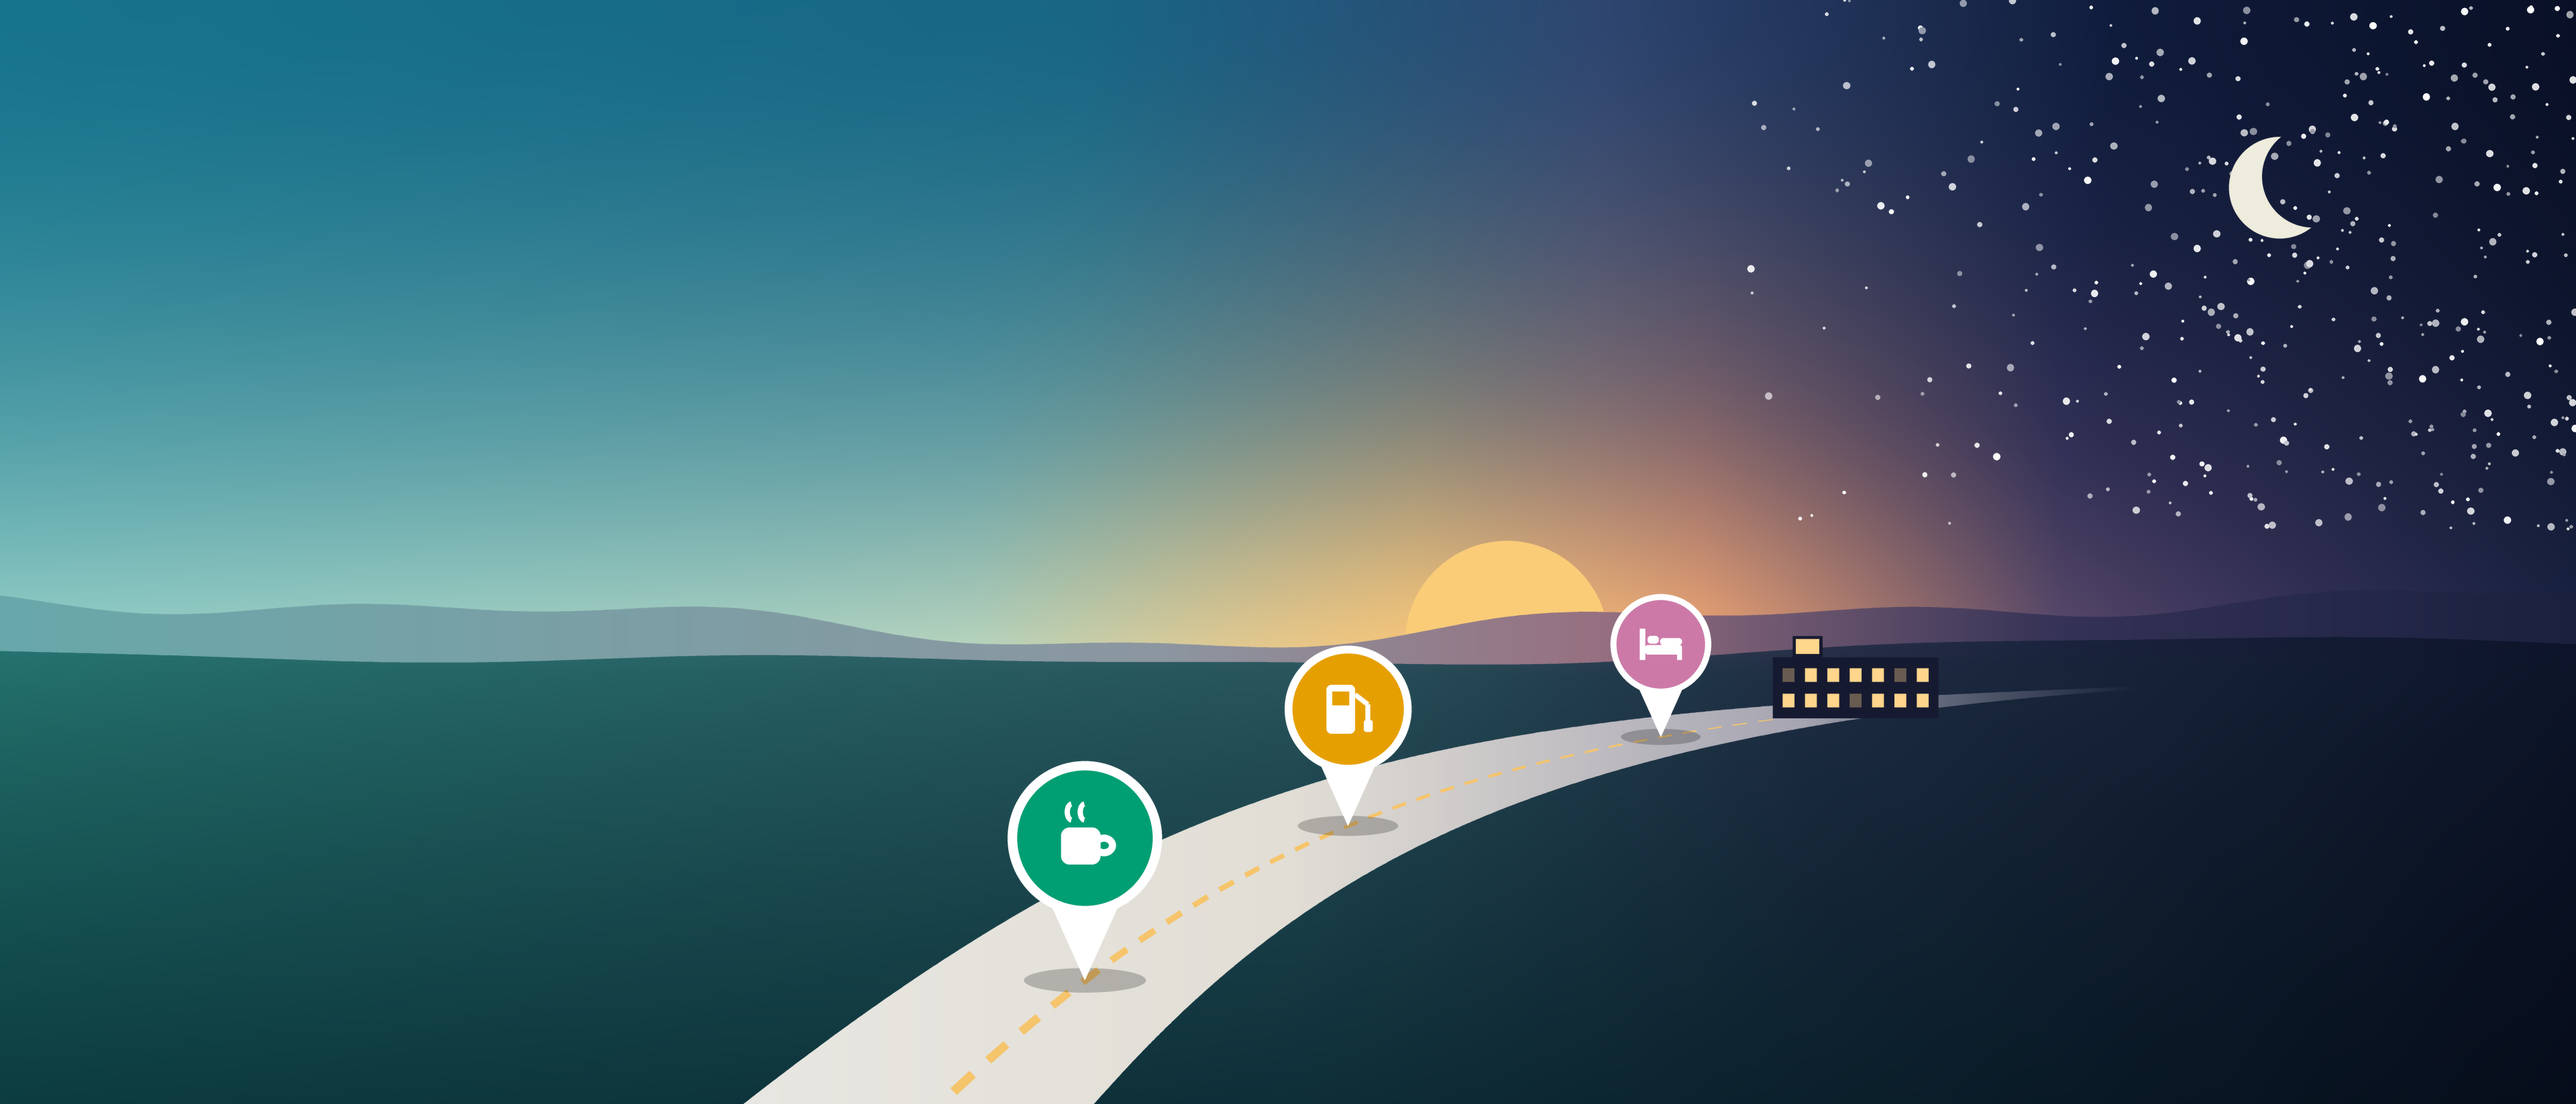
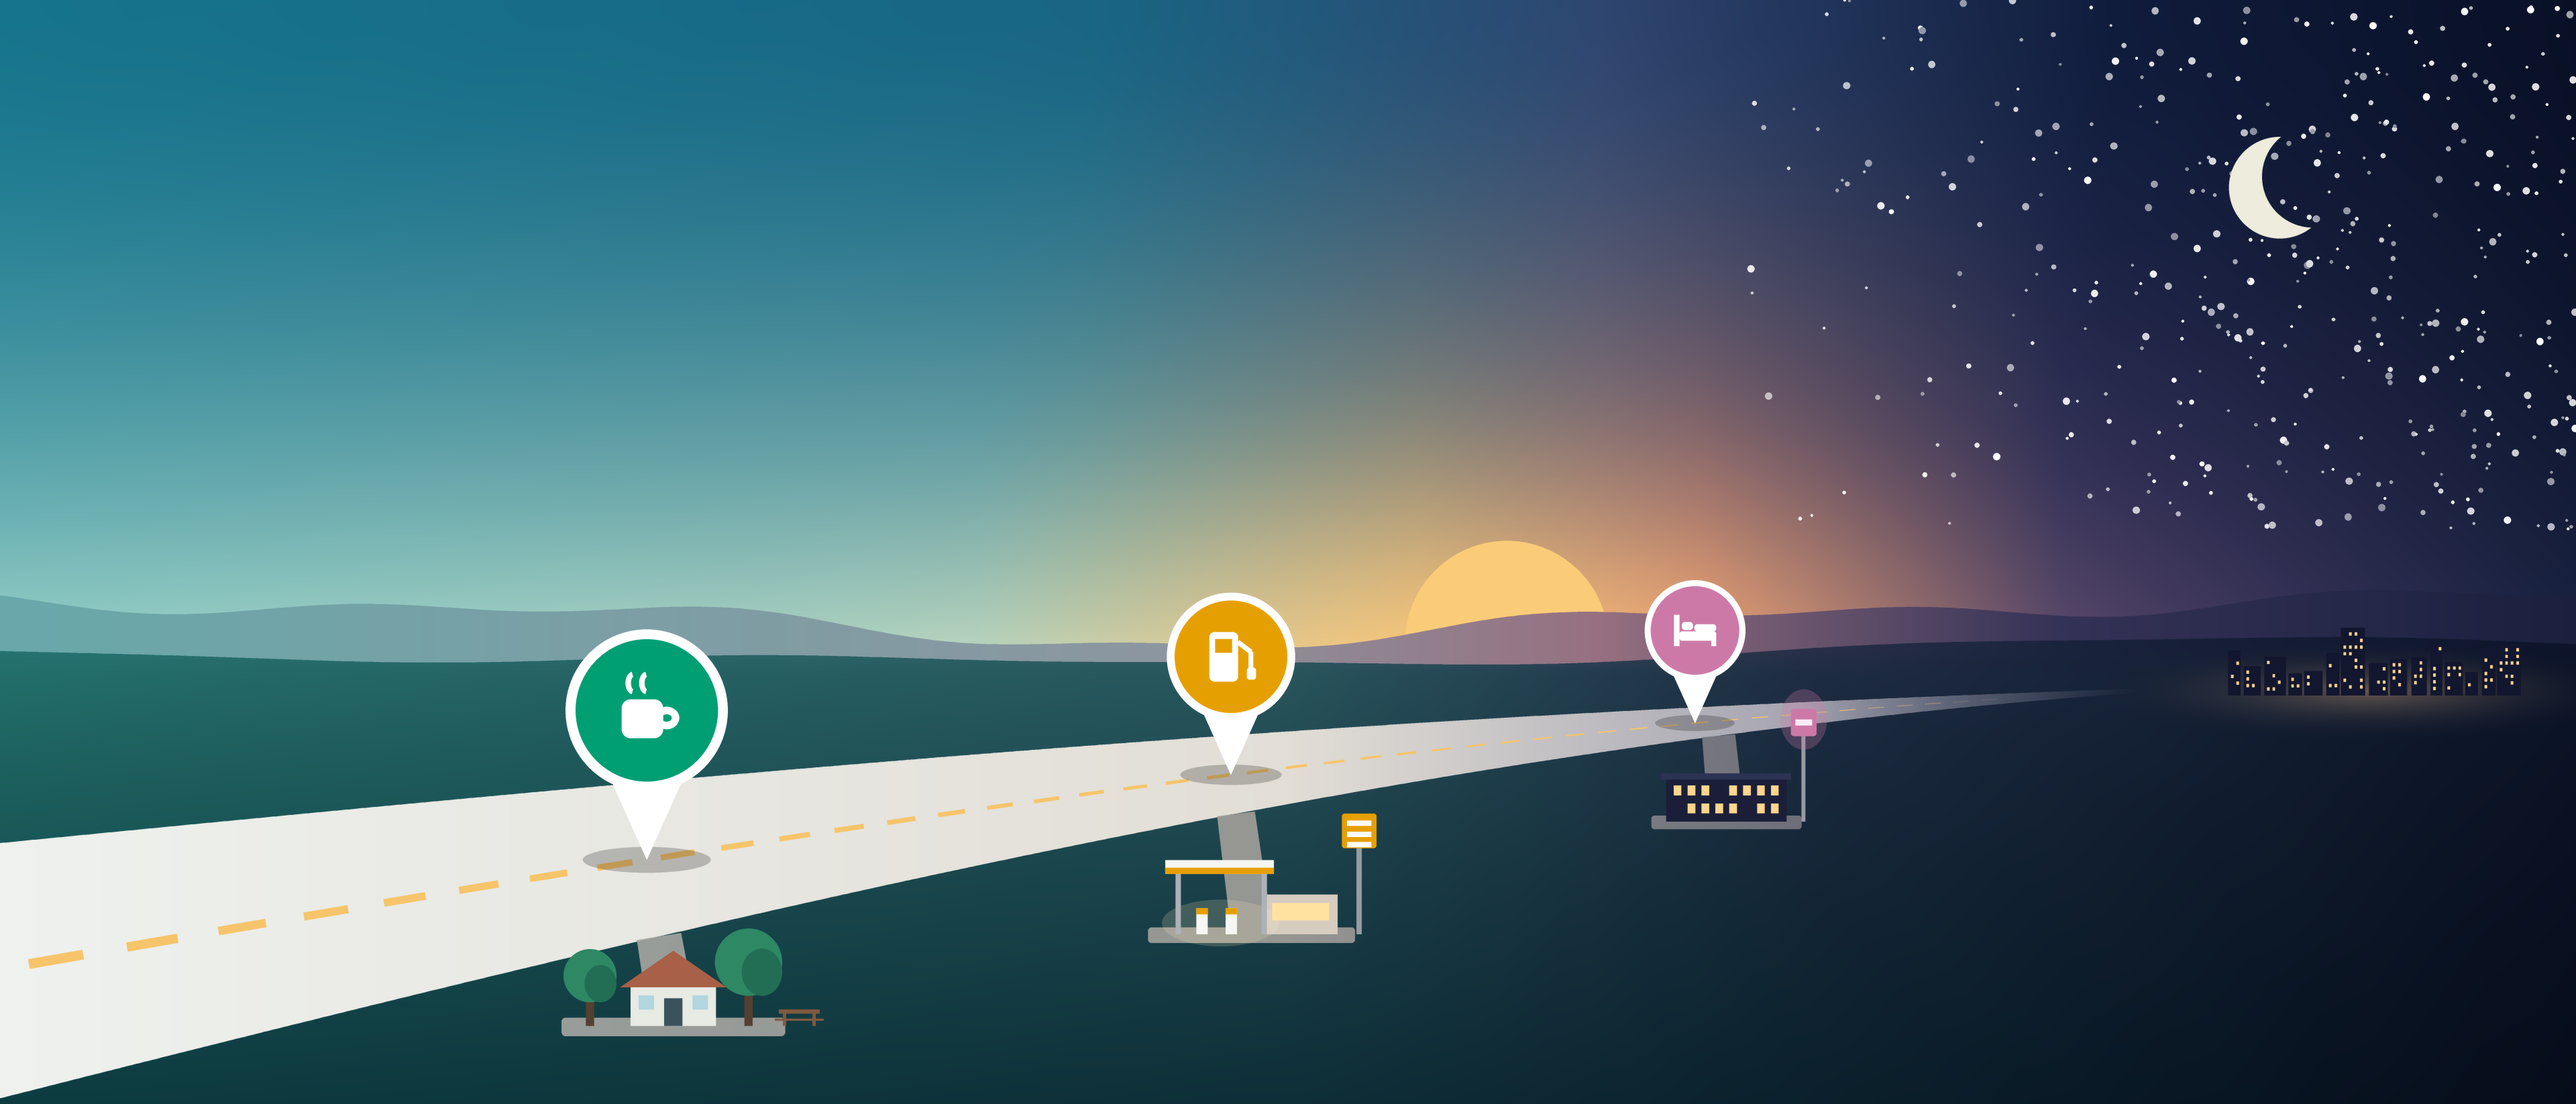
feat(store): stops beside the road, markers on it, a city at the end
The places to stop now stand beside the road, each with a driveway and
a small lot: a rest area with trees and a picnic table, a gas station
with its canopy, pumps and price sign, and a motel with lit windows and
a glowing sign. Only the pins stand on the road. The road leads to the
destination, a small city lit up on the horizon. The road comes in from
the left edge on a gentler diagonal so there's open land beside it.

Claude-Session: https://claude.ai/code/session_01BRUeUVsLRXhWLD3bJPQ5MV

Changed region(s): [[0.0, 0.5267, 0.7812, 1.0], [0.875, 0.5887, 0.9688, 0.6507]]

diff --git a/scripts/generate_store_header.py b/scripts/generate_store_header.py
@@ -2,9 +2,10 @@
 """Renders the App Store product-page header in both accepted sizes (RGB, no alpha).
 
 One long driving day as a panorama: daylight on the left turns to sunset in the middle and night
-on the right. A road winds from the foreground into the distance, and the trip's stops stand along
-it as pins in the app's stop colours: a break, fuel, and a motel lit up for the night. There's no
-text, and the stops sit in the middle so the App Store can crop the sides for each device.
+on the right. A road winds from the foreground into the distance, toward a city lit up on the horizon (the
+destination). The trip's stops are places beside the road, each with a driveway: a rest area, a
+gas station and a motel for the night; their markers stand on the road as pins in the app's stop
+colours. There's no text, and the stops sit in the middle so the App Store can crop the sides.
 
 Usage: python3 scripts/generate_store_header.py [output-directory]
 """
@@ -34,8 +35,8 @@ LINE = (246, 196, 106)
 WINDOW = (255, 214, 140)
 WHITE = (255, 255, 255)
 STOPS = [  # (position along the road, colour, glyph)
-    (0.36, (0, 158, 115), "rest"),
-    (0.57, (230, 159, 0), "fuel"),
+    (0.30, (0, 158, 115), "rest"),
+    (0.56, (230, 159, 0), "fuel"),
     (0.77, (204, 121, 167), "bed"),
 ]
 
@@ -109,6 +110,93 @@ def glyph(draw, kind, cx, cy, r):
         draw.rounded_rectangle([cx - 2 * k, cy - 16 * k, cx + 54 * k, cy + 2 * k], radius=8 * k, fill=255)
 
 
+class Site:
+    """A roadside place drawn in design units from its base centre (x right, y down, k px/unit)."""
+
+    def __init__(self, c, bx, by, k):
+        self.c, self.bx, self.by, self.k = c, bx, by, k
+
+    def box(self, x0, y0, x1, y1):
+        return [(self.bx + x0 * self.k) * SS, (self.by + y0 * self.k) * SS, (self.bx + x1 * self.k) * SS, (self.by + y1 * self.k) * SS]
+
+    def points(self, *xy):
+        return [((self.bx + x * self.k) * SS, (self.by + y * self.k) * SS) for x, y in xy]
+
+    def paint(self, color, shapes, opacity=1.0):
+        layer, draw = self.c.mask()
+        shapes(draw)
+        self.c.fill(layer, color, opacity)
+
+
+def rest_area(site):
+    """A small rest-area building with a gabled roof, trees and a picnic table."""
+    for tx, tr in ((-82, 26), (74, 33)):
+        site.paint((84, 64, 48), lambda d: d.rectangle(site.box(tx - 4, -tr * 1.1, tx + 4, 0), fill=255))
+        site.paint((46, 136, 100), lambda d: d.ellipse(site.box(tx - tr, -tr * 2.9, tx + tr, -tr * 0.9), fill=255))
+        site.paint((34, 110, 84), lambda d: d.ellipse(site.box(tx - tr * 0.2, -tr * 2.3, tx + tr, -tr * 0.9), fill=255))
+    site.paint((232, 234, 228), lambda d: d.rectangle(site.box(-42, -40, 42, 0), fill=255))
+    site.paint((168, 96, 72), lambda d: d.polygon(site.points((-52, -38), (52, -38), (0, -74)), fill=255))
+    site.paint((58, 82, 92), lambda d: d.rectangle(site.box(-9, -27, 9, 0), fill=255))
+    site.paint((176, 214, 222), lambda d: [d.rectangle(site.box(x, -30, x + 15, -16), fill=255) for x in (-34, 19)])
+    site.paint((128, 90, 62), lambda d: [d.rectangle(site.box(*b), fill=255) for b in
+                                         ((104, -16, 144, -12), (108, -12, 111, 0), (137, -12, 140, 0), (100, -7, 148, -5))])
+
+
+def gas_station(site):
+    """A canopy over two pumps, the shop behind, and a tall price sign."""
+    site.paint((214, 204, 192), lambda d: d.rectangle(site.box(14, -46, 100, 0), fill=255))
+    site.paint((255, 226, 160), lambda d: d.rectangle(site.box(24, -36, 90, -16), fill=255))
+    site.paint((255, 236, 190), lambda d: d.ellipse(site.box(-104, -40, 32, 14), fill=255), 0.18)
+    site.paint((172, 178, 184), lambda d: [d.rectangle(site.box(x, -70, x + 6, 0), fill=255) for x in (-88, 12)])
+    site.paint((246, 246, 242), lambda d: [d.rectangle(site.box(x, -30, x + 13, 0), fill=255) for x in (-64, -30)])
+    site.paint((230, 159, 0), lambda d: [d.rectangle(site.box(x, -30, x + 13, -23), fill=255) for x in (-64, -30)])
+    site.paint((246, 246, 242), lambda d: d.rectangle(site.box(-100, -86, 26, -70), fill=255))
+    site.paint((230, 159, 0), lambda d: d.rectangle(site.box(-100, -77, 26, -70), fill=255))
+    site.paint((150, 156, 164), lambda d: d.rectangle(site.box(122, -104, 128, 0), fill=255))
+    site.paint((230, 159, 0), lambda d: d.rounded_rectangle(site.box(105, -140, 145, -100), radius=3 * site.k * SS, fill=255))
+    site.paint((255, 255, 255), lambda d: [d.rectangle(site.box(111, y, 139, y + 6), fill=255) for y in (-132, -119, -107)])
+
+
+def motel(site):
+    """A two-storey motel at night with lit windows and a glowing sign."""
+    site.paint((26, 30, 56), lambda d: d.rectangle(site.box(-80, -58, 80, 0), fill=255))
+    site.paint((44, 50, 84), lambda d: d.rectangle(site.box(-86, -64, 86, -56), fill=255))
+
+    def windows(d):
+        for row in range(2):
+            for col in range(8):
+                if (row * 8 + col) % 5 != 3:
+                    x, y = -70 + col * 18.5, -48 + row * 24
+                    d.rectangle(site.box(x, y, x + 10, y + 13), fill=255)
+    site.paint(WINDOW, windows)
+    site.paint((150, 156, 164), lambda d: d.rectangle(site.box(100, -118, 105, 0), fill=255))
+    site.paint((204, 121, 167), lambda d: d.ellipse(site.box(72, -176, 134, -96), fill=255), 0.28)
+    site.paint((204, 121, 167), lambda d: d.rounded_rectangle(site.box(86, -150, 120, -114), radius=4 * site.k * SS, fill=255))
+    site.paint((255, 236, 246), lambda d: d.rectangle(site.box(92, -136, 114, -128), fill=255))
+
+
+def city(c, x0, x1, base, unit):
+    """The destination: a small skyline with lit windows and a warm glow above it."""
+    rng = random.Random(21)
+    towers, x = [], x0
+    while x < x1:
+        w = rng.uniform(9, 22) * unit
+        h = rng.uniform(16, 46) * unit * (1.5 if abs(x - (x0 + x1) / 2) < (x1 - x0) * 0.2 else 1.0)
+        towers.append((x, w, h))
+        x += w + rng.uniform(1, 4) * unit
+    layer, draw = c.mask()
+    for x, w, h in towers:
+        draw.rectangle([x * SS, (base - h) * SS, (x + w) * SS, (base + 4 * unit) * SS], fill=255)
+    c.fill(layer, (18, 22, 46))
+    layer, draw = c.mask()
+    for x, w, h in towers:
+        for wy in np.arange(base - h + 4 * unit, base - 3 * unit, 6 * unit):
+            for wx in np.arange(x + 2.5 * unit, x + w - 3 * unit, 5 * unit):
+                if rng.random() < 0.45:
+                    draw.rectangle([wx * SS, wy * SS, (wx + 2.2 * unit) * SS, (wy + 2.8 * unit) * SS], fill=255)
+    c.fill(layer, WINDOW)
+
+
 def render(width, height):
     c = Canvas(width, height)
     xs = np.linspace(0, 1, width, dtype=np.float32)
@@ -159,8 +247,15 @@ def render(width, height):
     draw.polygon(ridge_points(c, HORIZON + 0.012, 0.04, [(5, 0.6), (13, 0.3), (29, 0.1)], 11), fill=255)
     c.fill(layer, land)
 
+    # The destination: a city on the horizon where the road leads, with a warm glow above it.
+    city_x0, city_x1, city_base = 0.865 * width, 0.975 * width, horizon + 26 * unit
+    gx, gy = (np.arange(width)[None, :] - (city_x0 + city_x1) / 2) / width, (np.arange(height)[:, None] - city_base) / height
+    glow = np.clip(1 - np.sqrt((gx * 1.0) ** 2 + (gy * 2.4) ** 2) / 0.11, 0, 1) ** 2 * 0.35
+    c.pixels = c.pixels * (1 - glow[..., None]) + np.array((255, 196, 140), np.float32) * glow[..., None]
+    city(c, city_x0, city_x1, city_base, unit)
+
     # The road: from the bottom left, winding right into the distance, narrowing with depth.
-    p0, p1, p2, p3 = (0.24 * width, 1.30 * height), (0.44 * width, 0.80 * height), (0.50 * width, 0.66 * height), (0.84 * width, horizon + 22 * unit)
+    p0, p1, p2, p3 = (-0.03 * width, 0.89 * height), (0.30 * width, 0.755 * height), (0.56 * width, 0.655 * height), (0.86 * width, horizon + 22 * unit)
 
     def road_at(s):
         x, y = bezier(p0, p1, p2, p3, s)
@@ -168,7 +263,7 @@ def render(width, height):
         x1, y1 = bezier(p0, p1, p2, p3, max(0, s - 0.002))
         length = math.hypot(x2 - x1, y2 - y1) or 1
         nx, ny = -(y2 - y1) / length, (x2 - x1) / length
-        half = (160 * (1 - s) ** 1.5 + 1.2) * unit
+        half = (118 * (1 - s) ** 1.5 + 1.2) * unit
         return x, y, nx, ny, half
 
     samples = [road_at(i / 600) for i in range(601)]
@@ -190,24 +285,26 @@ def render(width, height):
         s += step
     c.fill(layer, LINE, fade)
 
-    # The motel for the night: just off the road by the last stop, windows lit.
-    bx, by, _, _, bhalf = road_at(0.81)
-    scale = 0.5
-    bw, bh = 300 * unit * scale, 110 * unit * scale
-    bx += 34 * unit
-    by -= 6 * unit
-    layer, draw = c.mask()
-    draw.rectangle([bx * SS, (by - bh) * SS, (bx + bw) * SS, by * SS], fill=255)
-    draw.rectangle([(bx + bw * 0.12) * SS, (by - bh * 1.35) * SS, (bx + bw * 0.3) * SS, (by - bh) * SS], fill=255)
-    c.fill(layer, (22, 26, 48))
-    layer, draw = c.mask()
-    for row in range(2):
-        for col in range(7):
-            wx = bx + bw * (0.06 + col * 0.135)
-            wy = by - bh * (0.82 - row * 0.42)
-            draw.rectangle([wx * SS, wy * SS, (wx + bw * 0.07) * SS, (wy + bh * 0.22) * SS], fill=255 if (row * 7 + col) % 5 else 90)
-    draw.rectangle([(bx + bw * 0.14) * SS, (by - bh * 1.3) * SS, (bx + bw * 0.28) * SS, (by - bh * 1.06) * SS], fill=255)
-    c.fill(layer, WINDOW)
+    # The places to stop, beside the road with a driveway each: (where, which side, gap, scale).
+    def place(at, side, gap, scale, lot, draw_site):
+        x, y, nx, ny, half = road_at(at)
+        ex, ey = x + side * nx * half, y + side * ny * half  # the road's edge
+        bx, by = x + side * nx * (half + gap * unit), y + side * ny * (half + gap * unit)
+        k = scale * unit
+        tx, ty = road_at(at + 0.01)[:2]
+        ux, uy = (tx - x), (ty - y)
+        length = math.hypot(ux, uy) or 1
+        ux, uy = ux / length * 22 * k, uy / length * 22 * k
+        layer, draw = c.mask()
+        draw.polygon([((ex - ux) * SS, (ey - uy) * SS), ((ex + ux) * SS, (ey + uy) * SS),
+                      ((bx + 24 * k) * SS, (by - 6 * k) * SS), ((bx - 24 * k) * SS, (by - 6 * k) * SS)], fill=255)
+        draw.rounded_rectangle([(bx - lot * k) * SS, (by - 8 * k) * SS, (bx + lot * k) * SS, (by + 10 * k) * SS], radius=4 * k * SS, fill=255)
+        c.fill(layer, palette(ROAD, xs)[None] * 0.72, fade * 0.9)
+        draw_site(Site(c, bx, by, k))
+
+    place(0.30, 1, 82, 0.92, 110, rest_area)
+    place(0.56, 1, 110, 0.78, 120, gas_station)
+    place(0.78, 1, 78, 0.68, 100, motel)
 
     # The stops: pins standing on the road, with a soft shadow, in the app's stop colours.
     for at, color, kind in STOPS:
